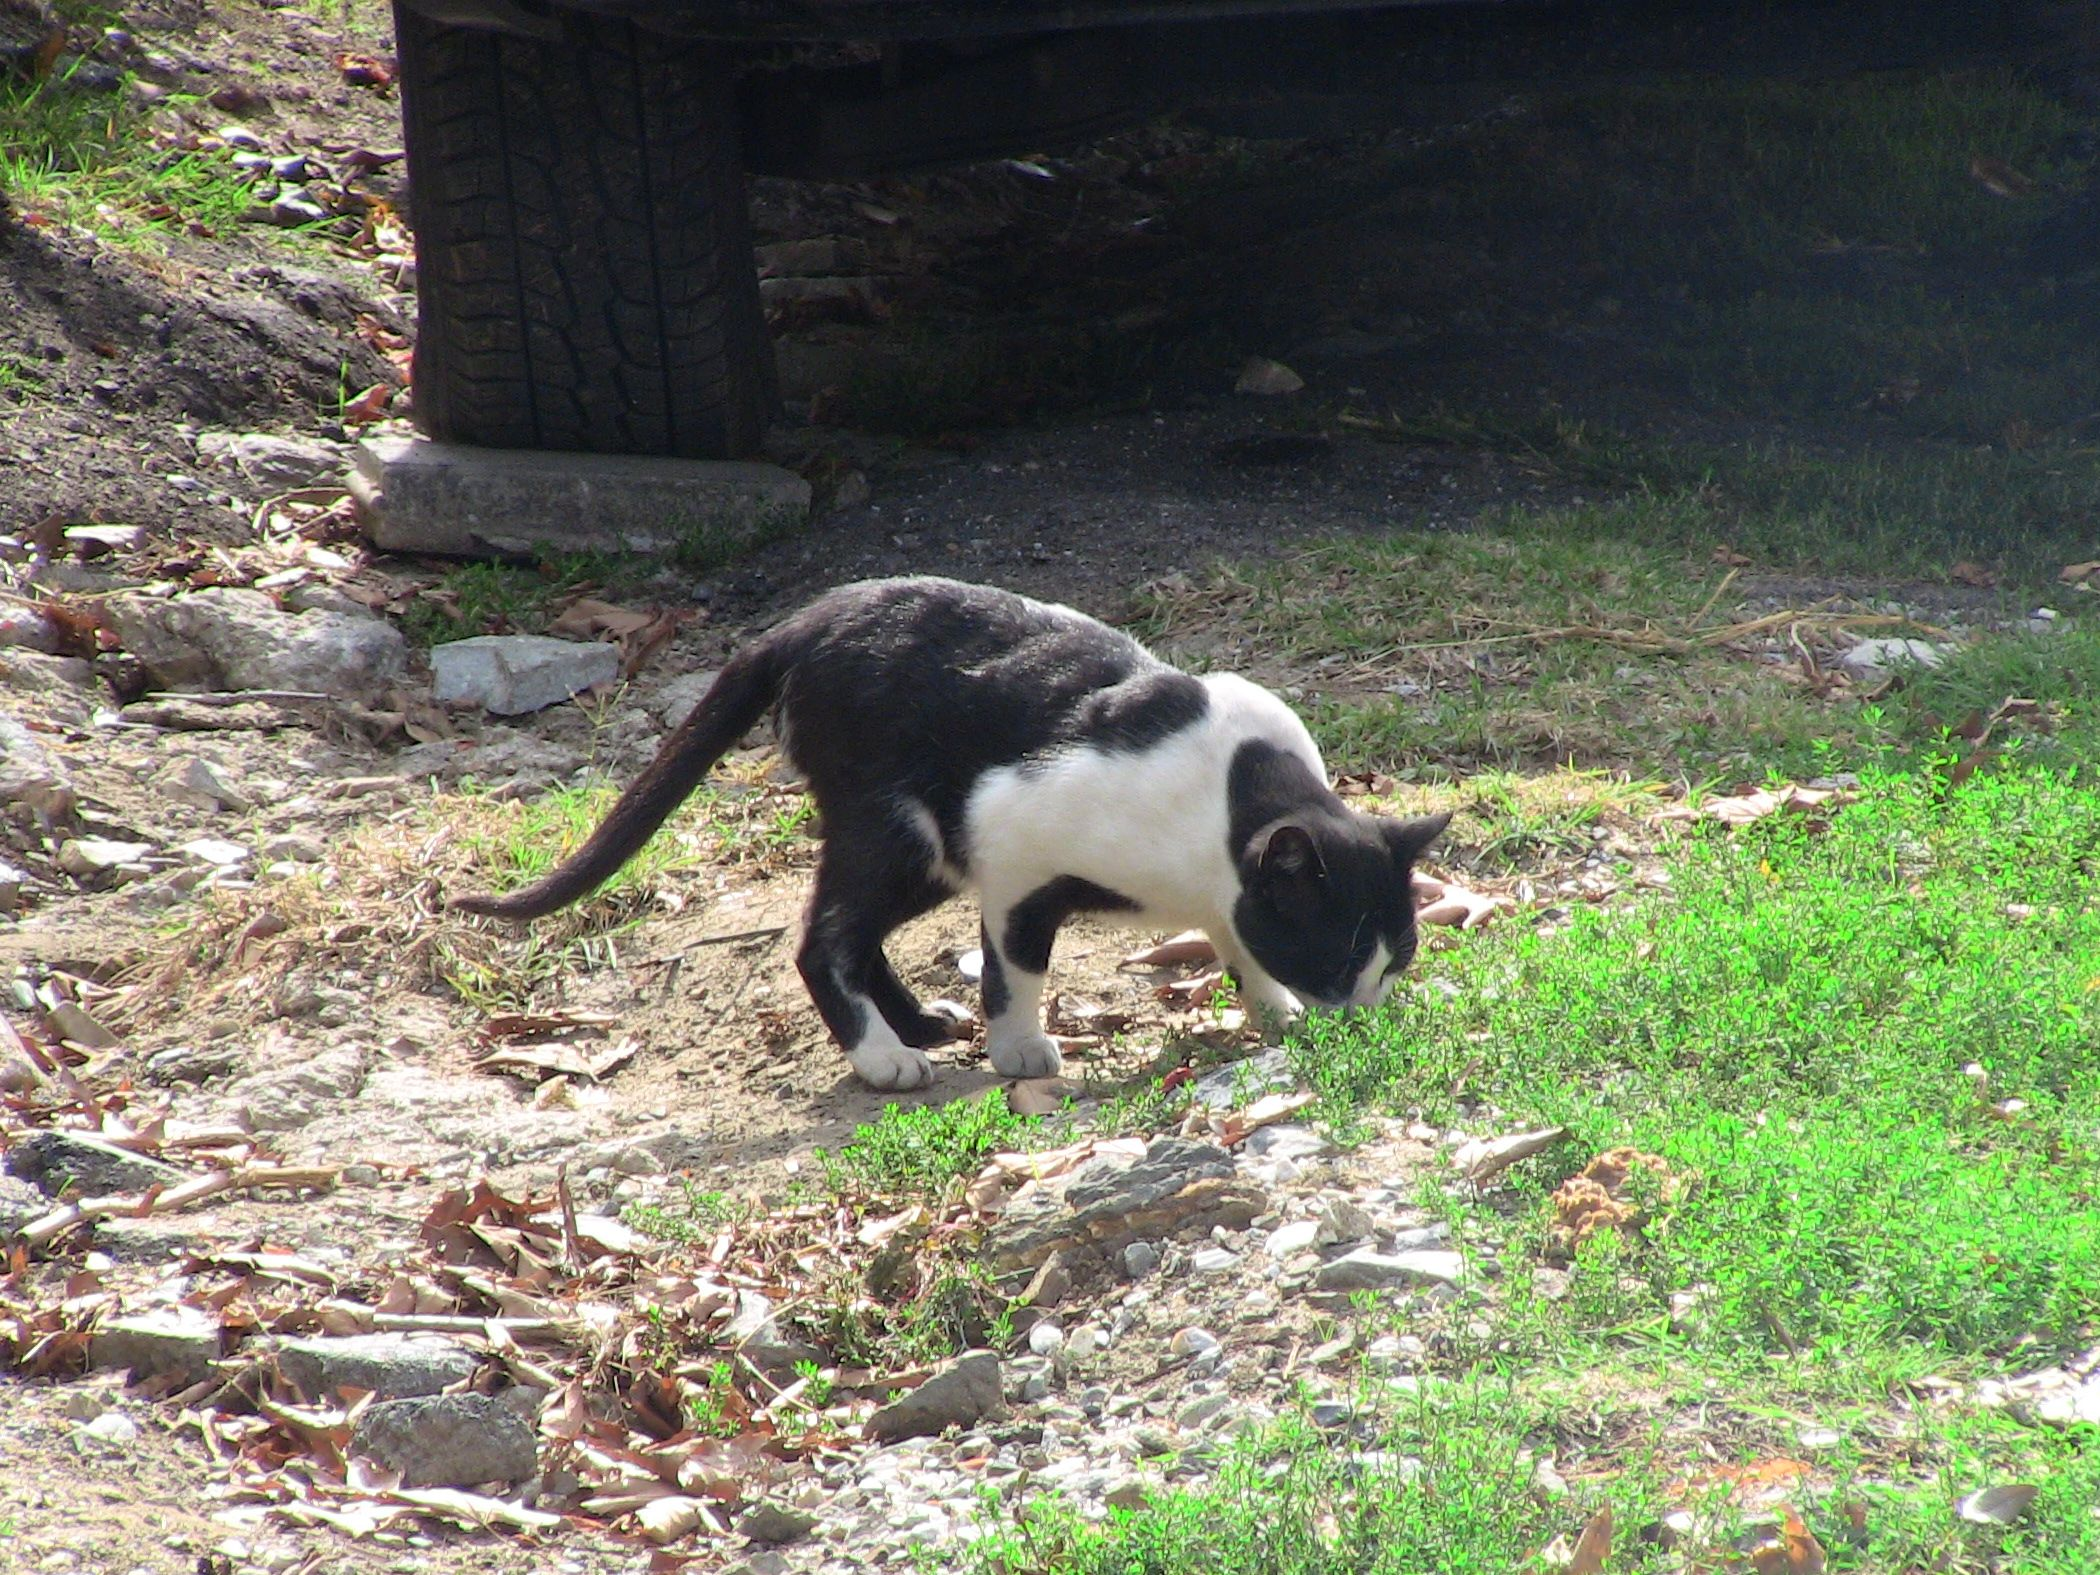
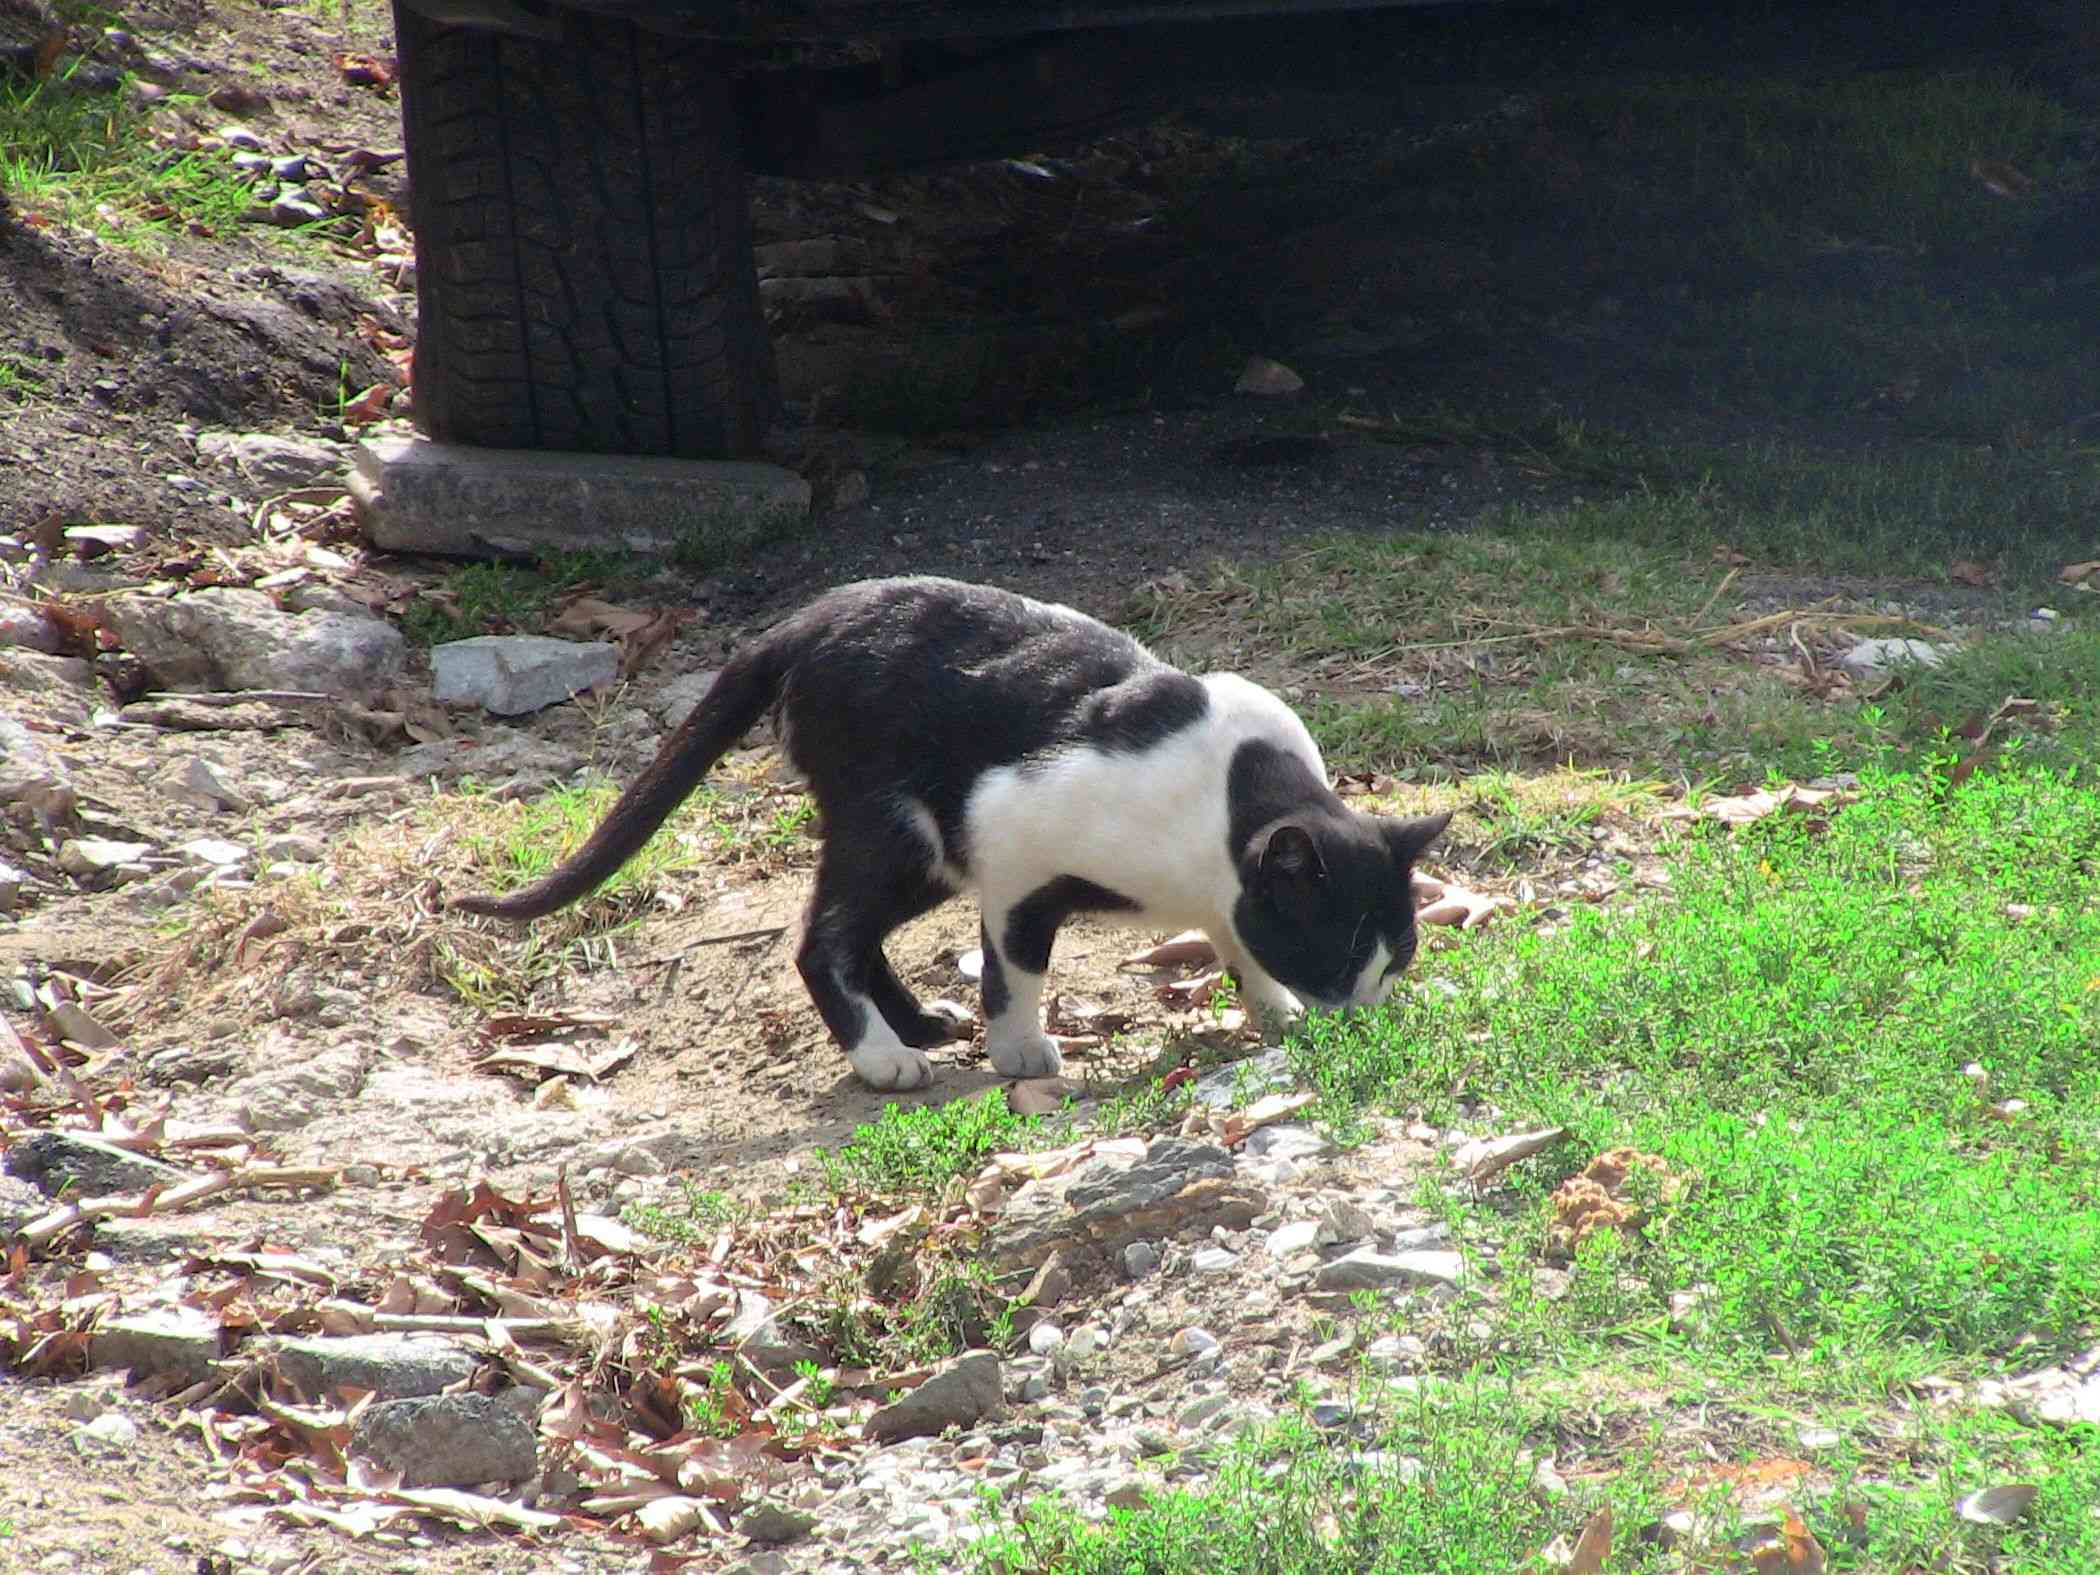
compressed images

diff --git a/css/links.css b/css/links.css
@@ -1,5 +1,5 @@
 body {
-    background-image: url("../images/pic-house.png");
+    background-image: url("../images/pic-house.jpg");
 }
 
 .links-box {

diff --git a/css/stash-3d.css b/css/stash-3d.css
@@ -1,3 +1,3 @@
 body {
-    background-image: url("../images/pic-plant.png");
+    background-image: url("../images/pic-plant.jpg");
 }